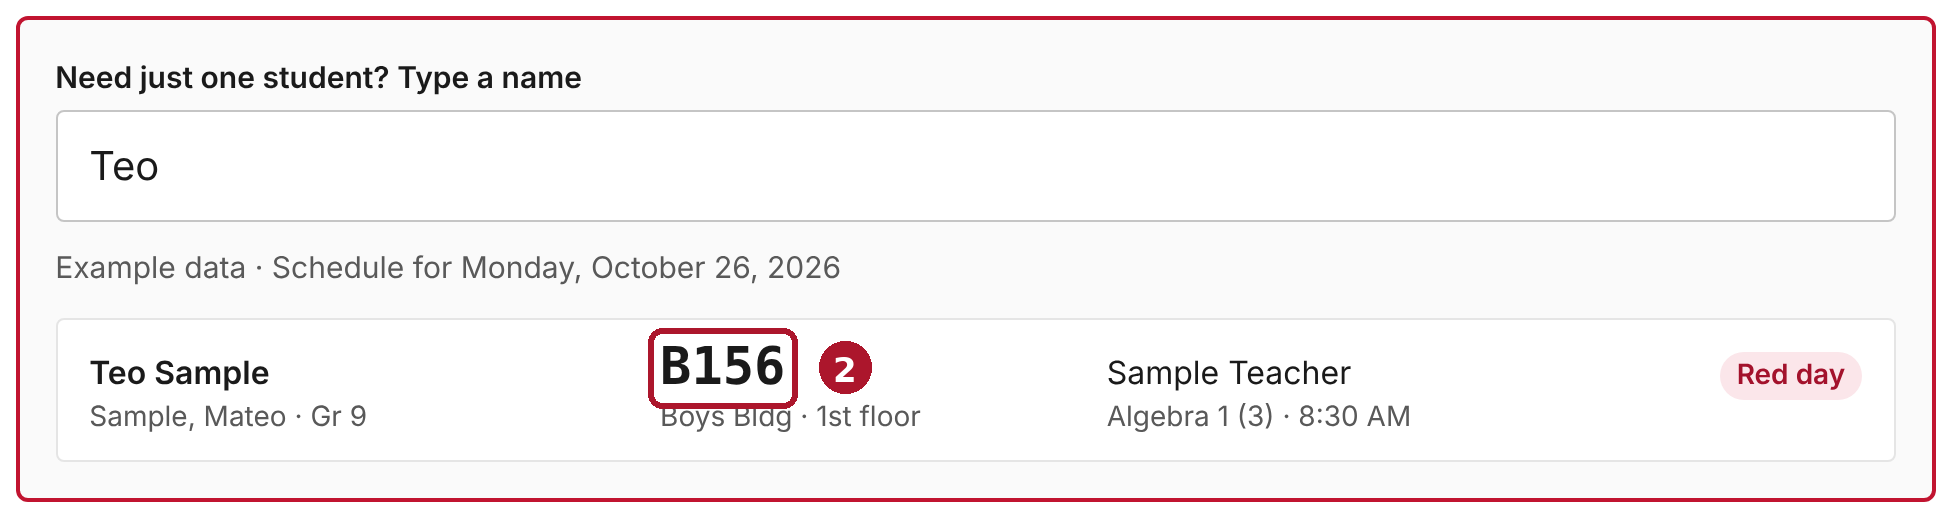
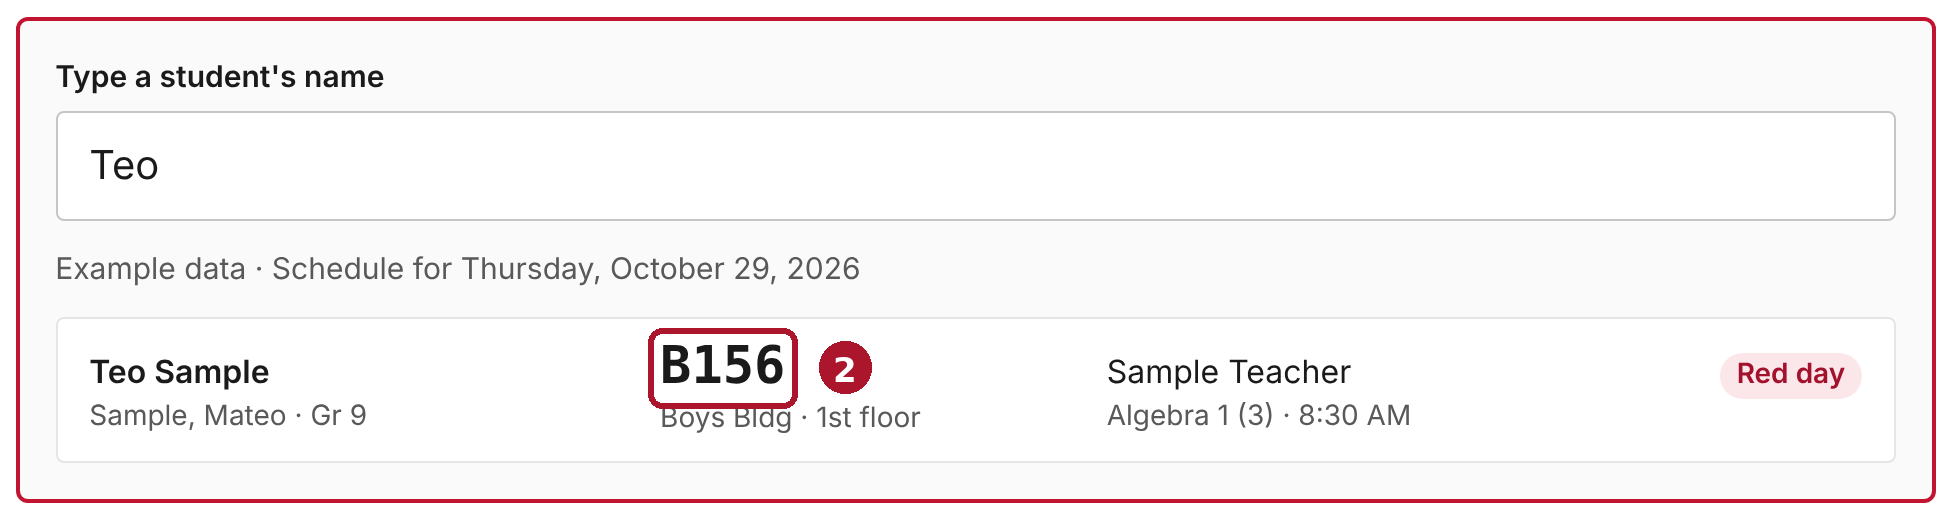
Two steps for now: download the schedule, look up by name
The Outlook calendar import didn't work in the counseling office's Outlook,
so it's switched off (CALENDAR_PARTS = false) along with the appointment
list, room list and pass printing. The code and pictures stay for later.

Claude-Session: https://claude.ai/code/session_01FAg7PKjxwAFkmfcyb2doRJ

diff --git a/index.html b/index.html
@@ -270,24 +270,21 @@ body.fs .rj-masthead::before{display:none}
 </header>
 
 <main>
-  <p class="lead">Every student on tomorrow's counselor calendars, with their <strong>1st-block room</strong>, in about five minutes. It can also print <strong>every pass for the day</strong>, filled in and sorted in walking order.</p>
-  <p class="safe">🔒 Student schedules and appointments are read on this computer only. Nothing is uploaded or saved, and it's all gone when you close the page.</p>
+  <p class="lead">Find any student's <strong>1st-block room for tomorrow</strong> in seconds. Download tomorrow's schedule once, then type each name you see on the counselors' calendars.</p>
+  <p class="safe">🔒 The schedule file is read on this computer only. Nothing is uploaded or saved, and it's all gone when you close the page.</p>
 
-  <div class="banner" id="outlookBanner" hidden></div>
-  <div class="banner" id="exampleBanner" hidden><span>You're looking at <b>example students</b> (made-up names). Do Steps 1–3 to use real data.</span></div>
+  <div class="banner" id="exampleBanner" hidden><span>You're looking at <b>example students</b> (made-up names). Do Steps 1 and 2 to use real data.</span></div>
   <div class="banner" id="dateBanner" data-tone="warn" hidden></div>
 
   <nav class="steps-nav" aria-label="Steps">
     <a href="#step1"><b>1</b> Download tomorrow's schedule</a>
-    <a href="#step2"><b>2</b> Send the counselors' calendars</a>
-    <a href="#step3"><b>3</b> Add the schedule file</a>
-    <a href="#step4"><b>4</b> Read the rooms</a>
+    <a href="#step3"><b>2</b> Look up each student</a>
   </nav>
 
   <!-- ===== Step 1 ===== -->
   <section class="block" id="step1">
     <h2 class="section"><span class="num">STEP 1</span> Download tomorrow's schedule from myRJ</h2>
-    <p class="section-sub">This saves a file to your Downloads folder. You'll use it in Step 3.</p>
+    <p class="section-sub">Do this once each afternoon. It saves a file to your Downloads folder that you'll use in Step 2.</p>
     <ol class="howto">
       <li>
         <div class="h-title">Open the report</div>
@@ -307,6 +304,50 @@ body.fs .rj-masthead::before{display:none}
     </ol>
   </section>
 
+  <!-- ===== Step 2 (id kept as step3 for the hidden parts' code) ===== -->
+  <section class="block" id="step3">
+    <h2 class="section"><span class="num">STEP 2</span> Add the file, then look up each student</h2>
+    <p class="section-sub">Add the file once. Then type names one after another, as many as you need.</p>
+    <ol class="howto">
+      <li>
+        <div class="h-title">Choose the file from Step 1</div>
+        <div class="h-body">Click the dashed box just below these pictures. A window opens on your <b>Downloads</b> folder. Click the newest file ending in <b>.xls</b>, then click <b>Open</b>. A line appears under the box with the date and how many students loaded ①. Check that the date is <b>tomorrow</b>.</div>
+        <figure style="max-width:680px" class="shot"><img width="680" src="img/drop.png" alt="The file box, with the line showing the schedule date and number of students circled" loading="lazy"><figcaption>Example. Yours will say about 1,600 students.</figcaption></figure>
+      </li>
+    </ol>
+    <label class="dropzone" id="drop" for="schedFile" style="margin-top:1rem">
+      <input type="file" id="schedFile" accept=".xls,.xlsx">
+      <div class="primary-text">Click here to choose the schedule file</div>
+      <div class="secondary-text">or drag it here from your Downloads folder · <span class="browse-link">browse</span></div>
+    </label>
+    <div class="loaded" id="schedFacts"></div>
+    <div class="actions" style="margin-top:.6rem"><button class="btn ghost" type="button" id="exampleBtn">Just looking? Try it with example students</button></div>
+    <details id="how1" hidden></details>
+
+    <div class="lookup-box" style="margin-top:1.5rem">
+      <label class="field" for="qlook">Type a student's name
+        <input type="search" id="qlook" placeholder="First or last name" autocomplete="off" spellcheck="false">
+      </label>
+      <div class="qmeta" id="qDate"></div>
+      <div id="qres" aria-live="polite"></div>
+    </div>
+
+    <ol class="howto" style="counter-reset: s 1; margin-top:1.5rem">
+      <li>
+        <div class="h-title">Type the name from the counselor's calendar</div>
+        <div class="h-body">Click in the <b>Type a student's name</b> box above and type part of the name, first or last. Spelling doesn't have to be perfect. The <b>1st-block room</b> shows in big letters ②, with the building, the teacher and Red or White day. For the next student, click in the box again and type the next name. The old name is highlighted, so typing replaces it.</div>
+        <figure style="max-width:680px" class="shot"><img width="680" src="img/lookup.png" alt="The lookup box with a name typed and the room circled" loading="lazy"><figcaption>Example student.</figcaption></figure>
+      </li>
+      <li>
+        <div class="h-title">Write it on the pass</div>
+        <div class="h-body">Put the teacher on <b>Delivered to</b> and the room on <b>Rm.</b> ③.</div>
+        <figure style="max-width:420px" class="shot"><img width="420" src="img/pass-fill.png" alt="A blank BD counseling pass with Delivered to and Rm. circled" loading="lazy"></figure>
+      </li>
+    </ol>
+  </section>
+
+  <!-- ===== Parts still being built (calendar import, room list, pass printing). Hidden for now; the code stays so we can bring them back. ===== -->
+  <div id="laterParts" hidden>
   <!-- ===== Step 2 ===== -->
   <section class="block" id="step2">
     <h2 class="section"><span class="num">STEP 2</span> Send the counselors' calendars from Outlook</h2>
@@ -384,44 +425,6 @@ body.fs .rj-masthead::before{display:none}
           <button class="btn ghost" type="button" id="clearEntriesBtn">Start over</button>
         </div>
         <span class="status" id="entryStatus"></span>
-      </div>
-    </details>
-  </section>
-
-  <!-- ===== Step 3 ===== -->
-  <section class="block" id="step3">
-    <h2 class="section"><span class="num">STEP 3</span> Add the schedule file</h2>
-    <p class="section-sub">Do this in the Pass Builder tab that opened in Step 2.</p>
-    <ol class="howto">
-      <li>
-        <div class="h-title">Choose the file from Step 1</div>
-        <div class="h-body">Click the dashed box ①. A window opens on your <b>Downloads</b> folder. Click the newest file ending in <b>.xls</b>, then click <b>Open</b>.</div>
-        <figure style="max-width:680px" class="shot"><img width="680" src="img/drop.png" alt="The Pass Builder's file box, circled" loading="lazy"></figure>
-      </li>
-    </ol>
-    <label class="dropzone" id="drop" for="schedFile">
-      <input type="file" id="schedFile" accept=".xls,.xlsx">
-      <div class="primary-text">Click here to choose the schedule file</div>
-      <div class="secondary-text">or drag it here from your Downloads folder · <span class="browse-link">browse</span></div>
-    </label>
-    <div class="loaded" id="schedFacts"></div>
-    <div class="actions" style="margin-top:.6rem"><button class="btn ghost" type="button" id="exampleBtn">Just looking? Try it with example students</button></div>
-    <details id="how1" hidden></details>
-
-    <div class="lookup-box" style="margin-top:1.5rem">
-      <label class="field" for="qlook">Need just one student? Type a name
-        <input type="search" id="qlook" placeholder="First or last name" autocomplete="off" spellcheck="false">
-      </label>
-      <div class="qmeta" id="qDate"></div>
-      <div id="qres" aria-live="polite"></div>
-    </div>
-    <details class="setup" style="margin-top:.6rem">
-      <summary>How the one-student lookup works</summary>
-      <div>
-        <p class="small">Type part of the name, first or last, in any order. Spelling doesn't have to be perfect. The 1st-block room shows in big letters ②, with the building, teacher and Red or White day.</p>
-        <figure style="max-width:680px" class="shot"><img width="680" src="img/lookup.png" alt="The lookup box with a name typed and the room circled" loading="lazy"><figcaption>Example student.</figcaption></figure>
-        <p class="small">Writing passes by hand? Put the teacher on <b>Delivered to</b> and the room on <b>Rm.</b> ③.</p>
-        <figure style="max-width:420px" class="shot"><img width="420" src="img/pass-fill.png" alt="A blank BD counseling pass with Delivered to and Rm. circled" loading="lazy"></figure>
       </div>
     </details>
   </section>
@@ -514,6 +517,7 @@ body.fs .rj-masthead::before{display:none}
       </div>
     </details>
   </section>
+  </div>
 </main>
 
 <footer class="site-footer">
@@ -1010,6 +1014,7 @@ async function loadFile(file) {
     if (S.events.length) showOutlookBanner(`<span>✓ Schedule loaded and matched to <b>${S.events.length}</b> calendar entries.</span><span>Check them in <a href="#step4">Step 4</a>.</span>`);
     $('entryStatus').textContent = '';
     render();
+    if (!CALENDAR_PARTS) { const q = $('qlook'); q.value = ''; quickLookup(); q.focus(); }
   } catch (err) { st.innerHTML = `<span class="chip bad">${esc(err.message || String(err))}</span>`; }
 }
 $('schedFile').addEventListener('change', e => { if (e.target.files[0]) loadFile(e.target.files[0]); });
@@ -1057,15 +1062,23 @@ $('addManualBtn').addEventListener('click', () => {
   render();
 });
 
+// ---------- parts still being built ----------
+// Outlook calendar import (Send to Pass Builder), room list and pass printing.
+// Turned off Oct 2026: the calendar import didn't work in Suzanne's Outlook. The page is
+// Step 1 (download the schedule) + Step 2 (look up by name). Set to true to bring them back.
+const CALENDAR_PARTS = false;
+if (CALENDAR_PARTS) document.getElementById('laterParts').hidden = false;
+
 // bookmark code
 const BM = String.raw`javascript:(()=>{const U='https://rjedtech.github.io/Raider-Pass-Builder/',O='https://rjedtech.github.io';const s=[...new Set([...document.querySelectorAll('[aria-label]')].map(e=>e.getAttribute('aria-label')).filter(t=>/\d{1,2}:\d{2} [AP]M to \d{1,2}:\d{2} [AP]M, [A-Z][a-z]+day, /.test(t)))];const b=document.createElement('div');b.style.cssText='position:fixed;top:14px;left:50%;transform:translateX(-50%);z-index:2147483647;background:#2a2a2a;color:#fff;border-bottom:5px solid #C11430;padding:14px 22px;font:600 16px Segoe UI,Arial,sans-serif;border-radius:6px;box-shadow:0 8px 28px rgba(0,0,0,.45);max-width:90vw';document.body.appendChild(b);const say=(t,ms)=>{b.textContent=t;if(ms)setTimeout(()=>b.remove(),ms)};if(!s.length){say('Raider Pass Builder: no appointments found. Wait for the calendar to finish loading, then click Send to Pass Builder again.',7000);return}const txt=s.join('\n');try{const d=document.createElement('textarea');d.value=txt;document.body.appendChild(d);d.select();document.execCommand('copy');d.remove()}catch(e){}say('Sending '+s.length+' appointments to Raider Pass Builder…');const w=window.open(U+'#outlook','_blank');let n=0,done=false;const t=setInterval(()=>{n++;try{w&&w.postMessage({type:'rpb-entries',text:txt},O)}catch(e){}if(n>40&&!done){clearInterval(t);say('Raider Pass Builder did not open. Open it yourself and paste with Ctrl + V (the appointments are copied).',10000)}},500);addEventListener('message',e=>{if(e.origin===O&&e.data&&e.data.type==='rpb-ok'&&!done){done=true;clearInterval(t);say('Sent '+s.length+' appointments to Raider Pass Builder. It is open in a new tab.',6000)}})})();`;
 $('bmCode').value = BM;
 $('bmLink').setAttribute('href', BM);
-const showOutlookBanner = msg => { const el = $('outlookBanner'); el.hidden = !msg; el.innerHTML = msg || ''; };
-if (location.hash === '#outlook') showOutlookBanner('<span>Waiting for appointments from Outlook…</span>');
+const showOutlookBanner = msg => { const el = $('outlookBanner'); if (!el) return; el.hidden = !msg; el.innerHTML = msg || ''; };
+if (CALENDAR_PARTS && location.hash === '#outlook') showOutlookBanner('<span>Waiting for appointments from Outlook…</span>');
 const OUTLOOK = /^https:\/\/(outlook\.(cloud\.microsoft|office\.com|office365\.com|live\.com))$/;
 let lastSent = '';
 window.addEventListener('message', e => {
+  if (!CALENDAR_PARTS) return;
   if (!(OUTLOOK.test(e.origin) || window.__RPB_TEST_ORIGIN === e.origin)) return;
   const d = e.data;
   if (!d || d.type !== 'rpb-entries' || typeof d.text !== 'string') return;
@@ -1080,7 +1093,7 @@ window.addEventListener('message', e => {
   else document.getElementById('step4').scrollIntoView({ behavior: 'smooth', block: 'start' });
 });
 // Another Pass Builder tab that already has the schedule can hand it over (same computer, nothing saved).
-let bc = null; try { bc = new BroadcastChannel('raider-pass-builder'); } catch (e) {}
+let bc = null; if (CALENDAR_PARTS) try { bc = new BroadcastChannel('raider-pass-builder'); } catch (e) {}
 function askOtherTabs() { if (bc) bc.postMessage({ type: 'need-schedule' }); }
 if (bc) bc.onmessage = e => {
   const d = e.data || {};
@@ -1102,7 +1115,7 @@ $('copyBmBtn').addEventListener('click', () => {
 function quickLookup() {
   const out = $('qres'), rep = S.report, raw = $('qlook').value.trim();
   $('qDate').textContent = rep ? `${S.example ? 'Example data · ' : ''}Schedule for ${fmtDate(rep.date)}` : '';
-  if (!rep) { out.innerHTML = '<div class="empty">Add tomorrow\'s schedule file first (Step 3).</div>'; return; }
+  if (!rep) { out.innerHTML = '<div class="empty">Add tomorrow\'s schedule file first: click the dashed box above.</div>'; return; }
   if (raw.length < 2) { out.innerHTML = `<div class="empty">${rep.students.length.toLocaleString()} students loaded. Start typing a name.</div>`; return; }
   let hits = [];
   // a pasted calendar entry or "First Last": use the same matching as the passes
@@ -1125,6 +1138,8 @@ function quickLookup() {
     <div>${fc && dayColor(fc) ? `<span class="chip ${dayColor(fc) === 'Red' ? 'bad' : 'plain'}">${dayColor(fc)} day</span>` : ''}</div></div>`; }).join('')}</div>`;
 }
 $('qlook').addEventListener('input', quickLookup);
+// clicking back into the box selects the last name, so the next one types right over it
+$('qlook').addEventListener('focus', e => setTimeout(() => e.target.select(), 0));
 
 // ---------- downloads ----------
 

diff --git a/README.md b/README.md
@@ -1,19 +1,25 @@
 # Raider Pass Builder
 
-Find any student's 1st-block room for tomorrow in seconds, and print counseling passes in walking order. Built for the Regis Jesuit counseling office.
+Find any student's 1st-block room for tomorrow in seconds. Built for the Regis Jesuit counseling office, so counseling passes can be delivered at the start of 1st block.
 
 **Live site:** https://rjedtech.github.io/Raider-Pass-Builder/
 
 ## What it does
 
 1. **Download tomorrow's schedule from myRJ:** the *Student Schedule For The Day* report, exported to Excel. Blackbaud has already applied Red/White day and the six-week rotation for that date, so each student's earliest class is their 1st block.
-2. **Send the counselors' calendars from Outlook:** with every counselor's calendar ticked in Outlook on the web (Day view, tomorrow), one click on the **Send to Pass Builder** favorites-bar button (a bookmarklet) reads the visible appointments and opens the builder with them already loaded (`postMessage`, origin-checked). It also copies them, so pasting is the fallback.
-3. **Add the schedule file:** every student gets their 1st-block room, building, floor, teacher and Red/White day. If another Pass Builder tab already has the schedule open, the new tab takes it from there (`BroadcastChannel`, nothing stored).
-4. **Check, then read the rooms:** a sortable room list (walking order, counselor then time, or last name) is the main result; printing is optional — the room list on one page, or every pass filled in. Check-Ins and entries titled with just a student's name become passes; uncertain names wait for a click; staff and personal events are skipped. The counselor comes from “By …” on the entry, or from the student's division and last name (the ranges on the School Counseling resource board). Passes print four to a letter page on the BD/GD layout in walking order from the BD Counseling Office (BD, then SIC and Steele, ending in GD), with a route sheet on page 1.
+2. **Add the file, then look up each student:** type any part of a name from a counselor's calendar and the 1st-block room shows in big letters, with the building, floor, teacher and Red/White day. Clicking back into the box highlights the last name, so the next one types right over it. Matching handles preferred names, nicknames, hyphenated last names and small misspellings.
 
-A one-student lookup box handles walk-ins. Matching handles preferred names, nicknames, hyphenated last names and small misspellings.
+Runs entirely in the browser. The schedule file never leaves the computer and is gone when the page closes.
 
-Runs entirely in the browser. The schedule file and calendar entries never leave the computer and are gone when the page closes. Only the counselor list is remembered, in the browser.
+## Parts still being built
+
+These are in the code but switched off (`CALENDAR_PARTS = false` in the script, and the hidden `#laterParts` block on the page). The Outlook import didn't work in the counseling office's Outlook, so the page is just the two steps above for now.
+
+- **Outlook calendar import:** a *Send to Pass Builder* favorites-bar button (bookmarklet) that read the visible appointments in Outlook on the web and sent them to the page (`postMessage`, origin-checked), with paste as a fallback.
+- **Appointment list:** Check-Ins and name-only entries became passes; staff and personal events were skipped; the counselor came from “By …” on the entry or from the student's division and last name.
+- **Room list and passes:** a sortable *Rooms for tomorrow* list (walking order from the BD Counseling Office, counselor, or last name), a one-page room list, and passes printed four to a letter page on the BD/GD layout.
+
+To bring them back, set `CALENDAR_PARTS = true`. A likely next route for the calendars is Power Automate rather than the bookmarklet.
 
 ## How it's built
 
@@ -22,10 +28,9 @@ One self-contained `index.html`, plus screenshots in `img/`. Libraries load from
 | Library | Use |
 |---|---|
 | SheetJS 0.18.5 | read the myRJ `.xls` export |
-| jsPDF 2.5.1 + AutoTable 3.8.2 | build the route sheet and passes |
+| jsPDF 2.5.1 + AutoTable 3.8.2 | route sheet and passes (parts still being built) |
 
 ## Things to keep up to date
 
-- **Counselor list** (`DEFAULT_COUNSELORS`): names, pass names, BD/GD division and last-name ranges from the School Counseling resource board in myRJ. All editable on the page.
-- **Walking order** (`BUILDING_ORDER`, `WALK`): from the 2022 floor plans. Rooms not in the list fall in after their building's list.
-- **Screenshots:** myRJ and Outlook pictures are real, taken in October 2026 at full resolution; the Outlook ones show only the calendar list and toolbar (no counselor appointments). Builder pictures are 2× captures with made-up example students. Retake them if myRJ or Outlook moves the buttons.
+- **Screenshots:** the myRJ pictures are real, taken in October 2026 at full resolution. Builder pictures are 2× captures with made-up example students. Retake them if myRJ moves the buttons.
+- **Counselor list** (`DEFAULT_COUNSELORS`) and **walking order** (`BUILDING_ORDER`, `WALK`): only used by the parts still being built.
